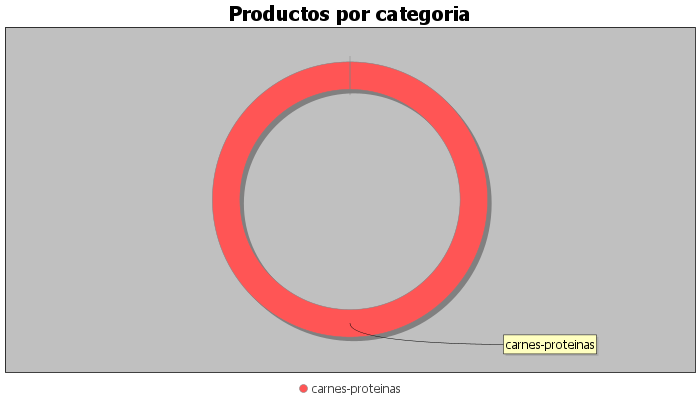
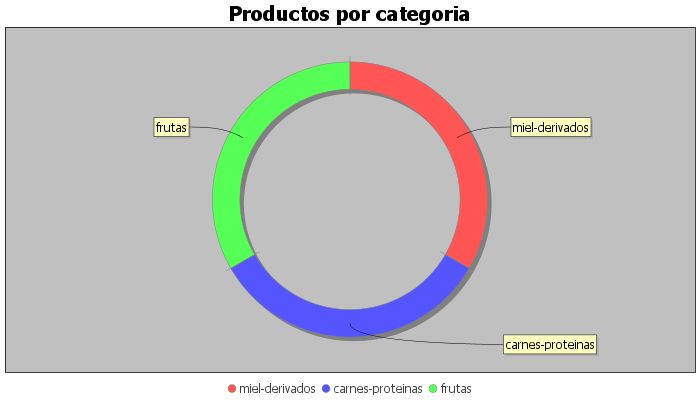
Actualizacion de front mis ventas y mis ordenes

Changed region(s): [[0.21, 0.15, 0.69, 0.84], [0.72, 0.27, 0.87, 0.36], [0.33, 0.96, 0.69, 0.99]]

diff --git a/Huerta-directa/src/main/resources/templates/DashBoard/misVentas.html b/Huerta-directa/src/main/resources/templates/DashBoard/misVentas.html
@@ -44,18 +44,20 @@
         <div
           class="flex justify-center items-center gap-20 !my-10 text-xl font-bold !text-black/70"
         >
-          <a href="" class="!text-[#8bc34a] !border-b-4 !border-[#88ff002f]"
-            >Mis ordenes</a
+        <a th:href="@{/misOrdenes}">Mis ordenes</a>
+          <a class="!text-[#8bc34a] !border-b-4 !border-[#88ff002f]" href=""
+            >Mis ventas</a
           >
-          <a class=""  th:href="@{/misVentas}">Mis ventas</a>
         </div>
+        <!-- SECCIÓN COMENTARIOS -->
 
-        <div class="!w-full !mx-auto !p-4">
+       
+      <div class="!w-full !mx-auto !p-4">
           <h2
             class="!text-2xl !font-bold !text-green-700 !mb-4 !flex !items-center !gap-2"
           >
             <span class="material-symbols-outlined">shopping_cart</span>
-            Historial de ordenes
+            Historial de Ventas
           </h2>
 
           <div class="!overflow-x-auto !rounded-xl !shadow-lg">
@@ -108,6 +110,8 @@
             </table>
           </div>
         </div>
+
+ 
       </main>
 
       <div class="right">
@@ -302,6 +306,8 @@
                 class="!border !w-[200px]"
                 style="border: 1px solid #9c27b0"
               />
+
+              
             </div>
           </div>
         </div>

diff --git a/Huerta-directa/src/main/java/com/exe/Huerta_directa/Controllers/RutasPagina.java b/Huerta-directa/src/main/java/com/exe/Huerta_directa/Controllers/RutasPagina.java
@@ -306,11 +306,16 @@ public class RutasPagina {
     public String misOrdenes() {
         return "DashBoard/misOrdenes";
     }
+            @GetMapping("/misVentas")
+    public String misVentas() {
+        return "DashBoard/misVentas";
+    }
 
     @GetMapping("/DashBoardGraficos")
     public String DashBoardGraficos() {
         return "DashBoard/GraficosDashboarCliente";
     }
+    
 
     @GetMapping("/GraficosCategoriaAdmin")
     public String GraficosCategoriaAdmin(Model model) {
@@ -341,7 +346,7 @@ public class RutasPagina {
         try (FileOutputStream fos = new FileOutputStream(outputFile)) {
             ChartUtils.writeChartAsPNG(fos, chart, 700, 400);
             try {
-                Thread.sleep(100); // 3 segundos
+                Thread.sleep(3000); // 3 segundos
             } catch (InterruptedException e) {
                 e.printStackTrace();
             }
